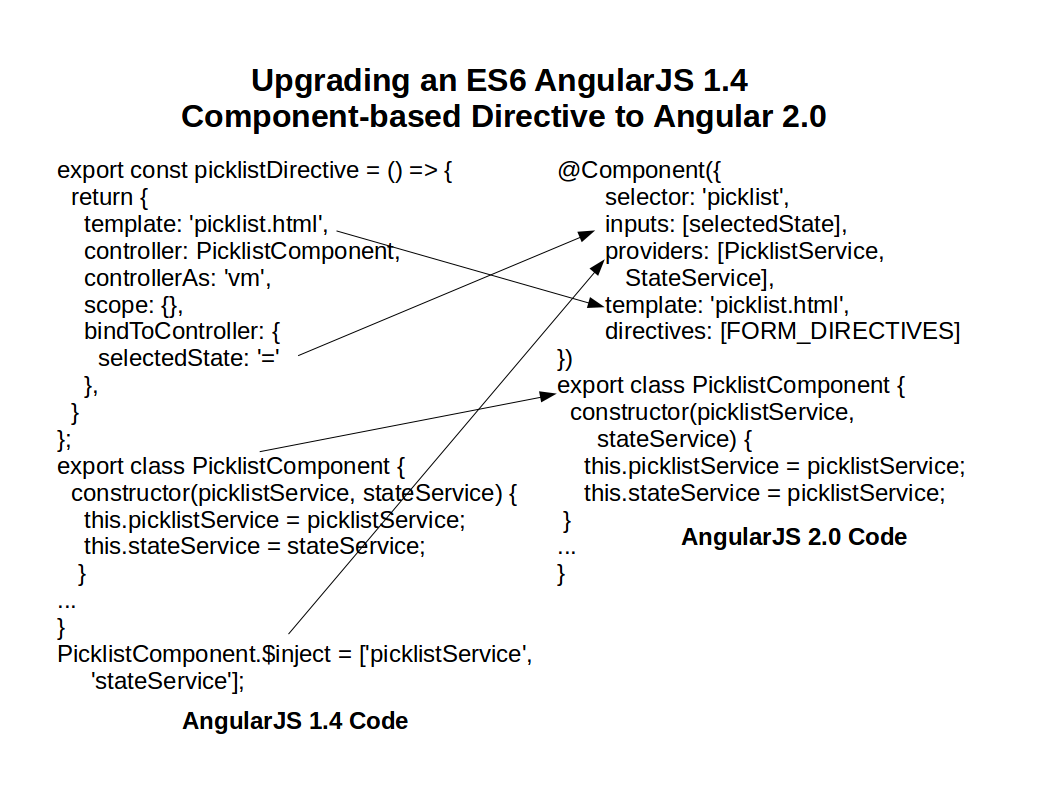
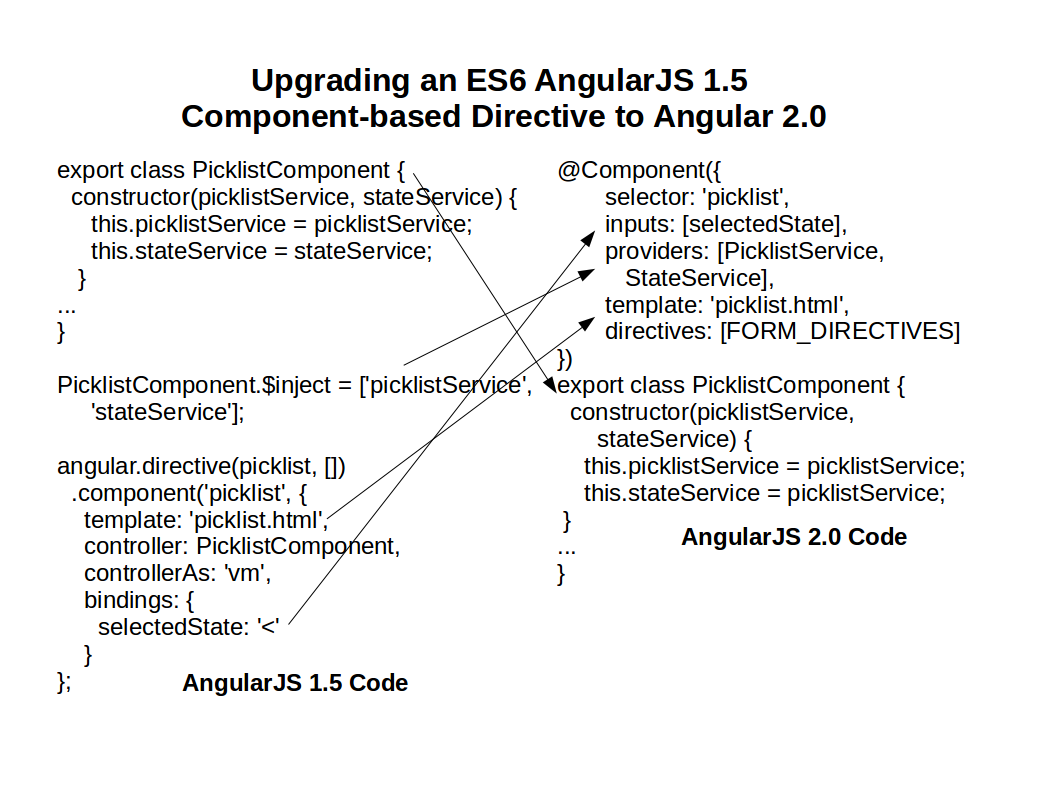
Updated Readme

diff --git a/Readme.md b/Readme.md
@@ -1,20 +1,19 @@
-[![Build Status](https://travis-ci.org/cdoremus/state-geo-angular.svg?branch=angular1.5)]
+![Build Status](https://travis-ci.org/cdoremus/state-geo-angular.svg?branch=angular1.5)
 
-### state-geo: Test your knowledge of the US states ###
+# state-geo: Test your knowledge of the US states #
 
-The programming is done as an AngularJS 1 app using a component-based directive architecture similar to what's coming in Angular 2.0 to make it easy to 
-upgrade to the new version when it becomes available. This is accomplished by following these guidelines: 
-* ES6/2015 is used throughout since Angular 2 will be written in the new JavaScript version. Babel is used to transpile the code to ES5.
-* All directive's tag attributes are set as bindToController properties in the DDO. These attributes will correspond to values of the inputs and outputs array properties set in the @Component decorator in Angular 2.
-* The directive is set to use isolated scope (scope: {}) in the DDO.
+The programming is done as an AngularJS 1 app using a component-based directive architecture similar to Angular 2.0 to make it easy to 
+upgrade to the new version. This is accomplished by following these guidelines: 
+* ES6/2015 is used throughout since Angular 2 is written in the new JavaScript version. Babel is used to transpile the code to ES5.
+* The component() method created in AngularJS 1.5 is used instead of the directive() method.
+* All directive's tag attributes are set as 'bindings' properties of the component object. These attributes will correspond to values of the inputs and outputs array properties set in the @Component decorator in Angular 2.
 * Each directive's controller is implemented in a separate ES6/2015 class. They will become the Angular 2 component class when the app is upgraded.
-* The directive's link function is not used since this function will not be available in Angular 2.
-* The directive's DDO sets the controllerAs property since $scope is going away in Angular 2.
+* The component's object argument sets the controllerAs property (or uses the default $ctrl as the controller's alias). This allows avoidance of $scope since is not used in Angular 2.
 * Replaced $watch() calls with RxJS Observable subscription since $watch is on the chopping block for Angular 2.
 * AngularJS 1 services are implemented as ES6/2015 classes. They will port directly to Angular 2.
 * Standalone Angular controllers are NOT used in the app since they are going away in Angular 2.
 
-An example of how to to upgrade a ES6/2015 AngularJS 1.4 component-based directive to Angular 2.0 is shown below:
+An example of how to to upgrade a ES6/2015 AngularJS 1.5 component-based directive to Angular 2.0 is shown below:
 ![TranslatingNg1ToNg2](screenshots/TranslatingNg1ToNg2.png "Translating an AngularJS 1.2 Directive Component to Angular 2.0")
   
 The build system for this application uses gulp with webpack (and babel). Stylus is used as the CSS preprocessor with Jeet to aid layout. If you want to run the program locally,
